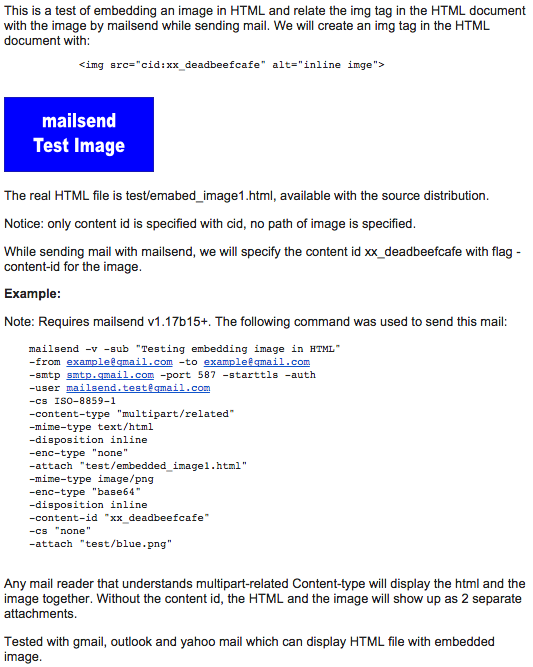
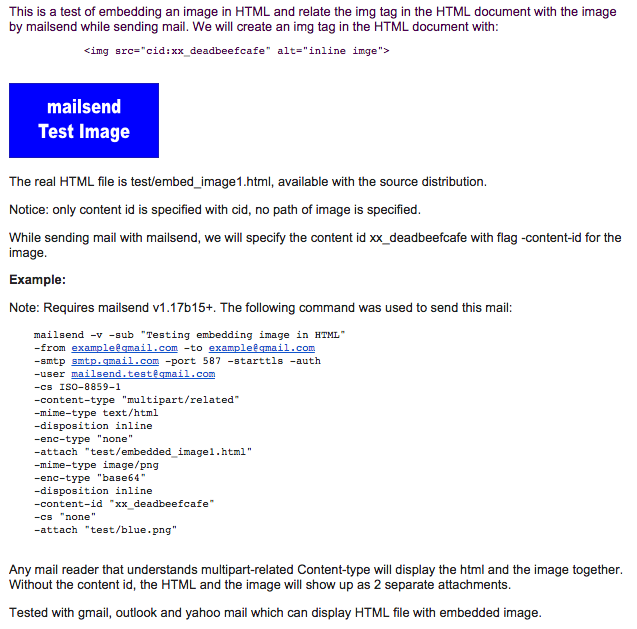
fixed a typo in embed_image1.html

Changed region(s): [[0.0, 0.0, 0.9906, 0.9968]]

diff --git a/test/embed_image1.html b/test/embed_image1.html
@@ -10,7 +10,7 @@
         <p>
             <img src="cid:xx_deadbeefcafe" alt="inline imge">
 <p>            
-The real HTML file is test/emabed_image1.html, available with the source distribution.
+The real HTML file is test/embed_image1.html, available with the source distribution.
         <p>
 Notice: only content id is specified with cid, no path of image is specified.
 <p>
